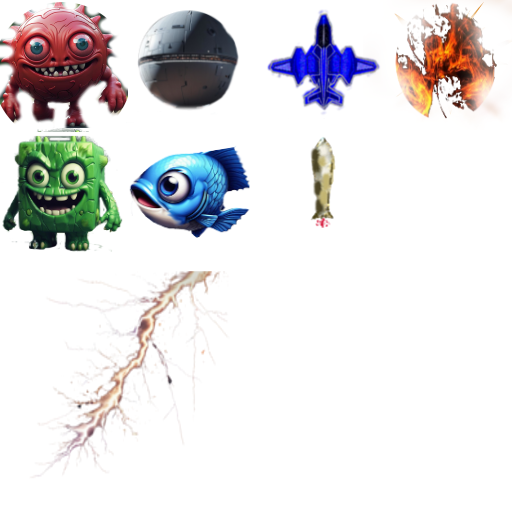
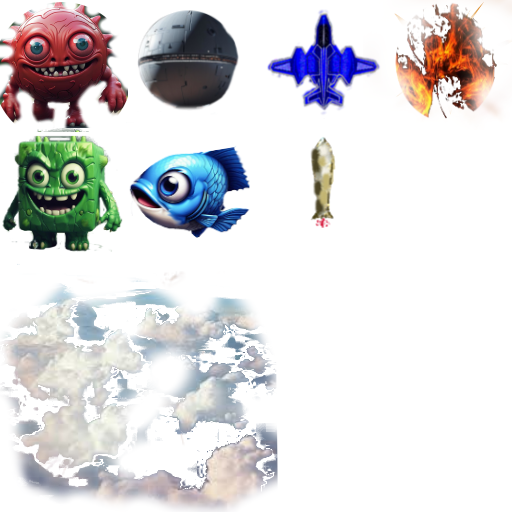
Add files via upload

Changed region(s): [[0.0, 0.5312, 0.5625, 1.0]]

diff --git a/js/main.js b/js/main.js
@@ -4,7 +4,8 @@ import Sprite from "./sprites.js"
 var trianglesOn = true
 
 const sprites = [new Sprite({txPos:{x:0.5,y:0,xx:0.75,yy:0.25},hw:0.16,hh:0.16})]
-const trigs = []
+sprites[0].v={x:0,y:0}
+const clouds = []
 const missiles = []
 const fires = []
 
@@ -38,24 +39,41 @@ function startFire(sp){
 
 function createMonster(){
 	const y = 0.25*rndInt(0,2)
-	const w = rnd(0.1,0.2)
+	const w = rnd(0.07,0.16)
 	const sp =  new Sprite({
 		color:[1,1,1,1],
 		pos:{x:rnd(),y:rnd()},
 		txPos:{x:0,y:y,xx:0.25,yy:y+0.25},
 		hw:w,hh:w})
 	sp.v={x:rnd(0.1),y:rnd(-2,-1)}
+	sp.rot=rnd(0.05)
+	return sp
+}
+
+
+function createCloud(sp){
+	const w = rnd(0.6,1.)
+	sp = sp || new Sprite({})
+	sp.color=[rnd(0.5,1),rnd(0.5,1),rnd(0.5,1),rnd(0.1,0.3)]
+	sp.pos={x:rnd(),y:rnd( 3, 2)}
+	sp.txPos={x:0,y:0.5,xx:0.5,yy:1}
+	sp.hw=w
+	sp.hh=w
+	sp.rot=rnd(0.05)
 	return sp
 }
 
 for(let i=0;i<10;i++)
-	missiles[i]=createMissile()
+	missiles[i] = createMissile()
 
 for(let i=1;i<10;i++)
 	sprites[i]=createMonster()
 
 var missile_count = 3
 
+for(let i=0;i<10;i++)
+		clouds[i] = createCloud()
+	
 document.body.onkeydown = function(e){
 	
 	switch(e.key){
@@ -111,18 +129,11 @@ function animate(){
 	  
 	//--- draw random triangles
 	if(trianglesOn)
-	for(let i in trigs){
-					  trigs[i].add({x:0,y:0}, t*(2+i*0.1))
-					  trigs[i].pos.y -= dt*(1+0.053*i)
-					  if(trigs[i].pos.y<-2){
-						  const x = rndInt(0,3)*0.25 
-						  const y = rndInt(0,3)*0.25 
-						  trigs[i].hw = rnd(0.3,0.6)
-						  trigs[i].hh = rnd(0.3,0.6)
-						  trigs[i].txPos={x:x,y:y,xx:x+0.25,yy:y+0.25}
-						  trigs[i].color=[rnd(0.5,1),rnd(0.5,1),rnd(0.5,1),rnd(0.05,0.31)]
-						  trigs[i].pos.y=rnd(1.5,3.5) 
-						  trigs[i].pos.x=rnd() 
+	for(let i in clouds){
+					  clouds[i].add({x:0,y:0}, t*(0.1+i*0.01))
+					  clouds[i].pos.y -= dt*(1+0.053*i)
+					  if(clouds[i].pos.y<-1-clouds[i].hh){
+				        createCloud(clouds[i])		   
 					  }
 				}
 				  
@@ -144,32 +155,39 @@ function animate(){
 			}
 		}
 		
-			sprites[i].add()
-			sprites[i].pos.x+= sprites[i].v.x*dt
-			sprites[i].pos.y+= sprites[i].v.y*dt
+			sp.add(undefined,sp.rot+=rnd(0.1)*dt)
+			sp.pos.x+= sp.v.x*dt
+			sp.pos.y+= sp.v.y*dt
 			 
-			sprites[i].pos.x=sat(sprites[i].pos.x,-1.1,1.1)
-			sprites[i].v.x +=rnd(0.01)*dt
-			sprites[i].v.y +=rnd(0.01)*dt
-			sprites[i].v.y  = sat(sprites[i].v.y,-1,-0.3)
+			sp.pos.x=sat(sp.pos.x,-1.1,1.1)
+			sp.v.x +=rnd(0.01)*dt
+			sp.v.y +=rnd(0.01)*dt
+			sp.v.y  = sat(sp.v.y,-1,-0.3)
 		
-		if(sprites[i].pos.y<-1.5){
-			sprites[i].pos.y=rnd(2,2.7)
-			sprites[i].pos.x=rnd( )
+		if(sp.pos.y<-1.5){
+			sp.pos.y=rnd(2,2.7)
+			sp.pos.x=rnd( )
 		}
 	}
 	
-	if(Mouse.state==1)
-	if(dist(sprites[0].pos,Mouse)>0.05)
+	//if(Mouse.state==1)
 	{
-		sprites[0].pos.x += dt*13*(Mouse.x - sprites[0].pos.x)
-		sprites[0].pos.y += dt*13*(Mouse.y - sprites[0].pos.y)
-		sprites[0].pos.x = sat(sprites[0].pos.x ,-1,1)
-		sprites[0].pos.y = sat(sprites[0].pos.y ,-1,1)
-	}		
-	else {
-		Mouse.state=0
-		missile_fire()
+		const d = dist(sprites[0].pos,Mouse)
+		if(d>0.05)
+		{
+			sprites[0].v.x = dt*513*(Mouse.x - sprites[0].pos.x)
+			sprites[0].v.y = dt*513*(Mouse.y - sprites[0].pos.y)
+			sprites[0].pos.x += dt*sprites[0].v.x
+			sprites[0].pos.y += dt*sprites[0].v.y
+			sprites[0].pos.x = sat(sprites[0].pos.x ,-1,1)
+			sprites[0].pos.y = sat(sprites[0].pos.y ,-1,1)
+		}		
+		else
+		if(Mouse.state>0) // triger missile		
+		{
+			Mouse.state=0
+			missile_fire()
+		}
 	}
 		
 	for(let i in missiles){
@@ -238,8 +256,6 @@ function animate1(){
 
 document.body.onload = function(){		
 	 
-	for(let i=0;i<20;i++)
-		trigs.push(new Sprite({pos:{x:rnd(),y:-2},hw:0.3,hh:0.3}))
 	Engine.messagebox.print("Press 'a' to stop or resume animation.")
 	Engine.messagebox.print("Press 't' to show or hide triangles.")
 	Engine.messagebox.print("Press 'Escape' to erase text.")
